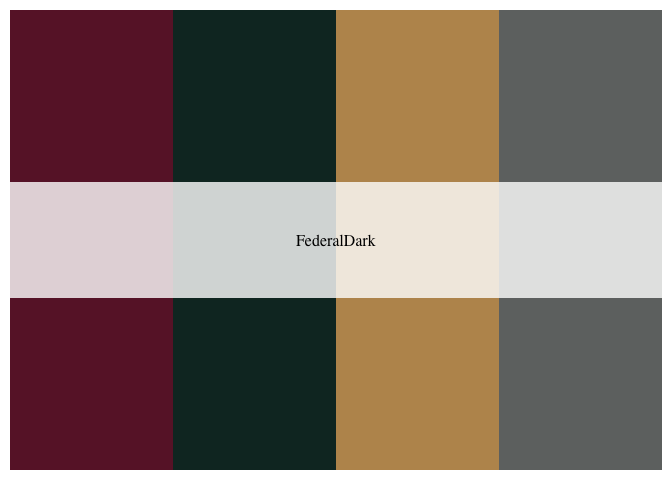
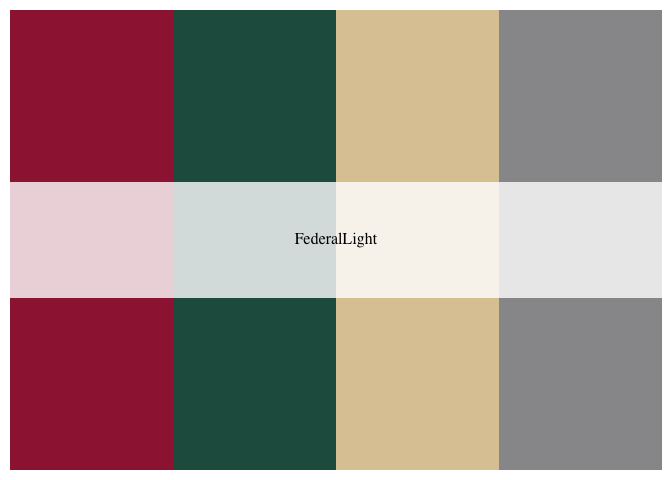
added example to readme

diff --git a/README.md b/README.md
@@ -62,7 +62,7 @@ gobmx_palette("FederalDark")
 # Gobierno Federal (sólo tonos claros)
 
 ``` r
-gobmx_palette("FederalDark")
+gobmx_palette("FederalLight")
 ```
 
 <img src="man/figures/README-unnamed-chunk-8-1.png" width="100%" />
@@ -105,3 +105,14 @@ ggplot(datos, aes(x = Estado, y = y)) +
 ```
 
 <img src="man/figures/README-unnamed-chunk-12-1.png" width="100%" />
+
+``` r
+pal   <- gobmx_palette("CDMX2", 32, type = "continuous")
+datos <- data.frame(y = rnorm(32), Estado = as.factor(1:32))
+ggplot(faithfuld, aes(waiting, eruptions)) +
+  geom_raster(aes(fill = density)) +
+  scale_fill_gradientn(colours = pal) +
+  theme_void()
+```
+
+<img src="man/figures/README-unnamed-chunk-13-1.png" width="100%" />
